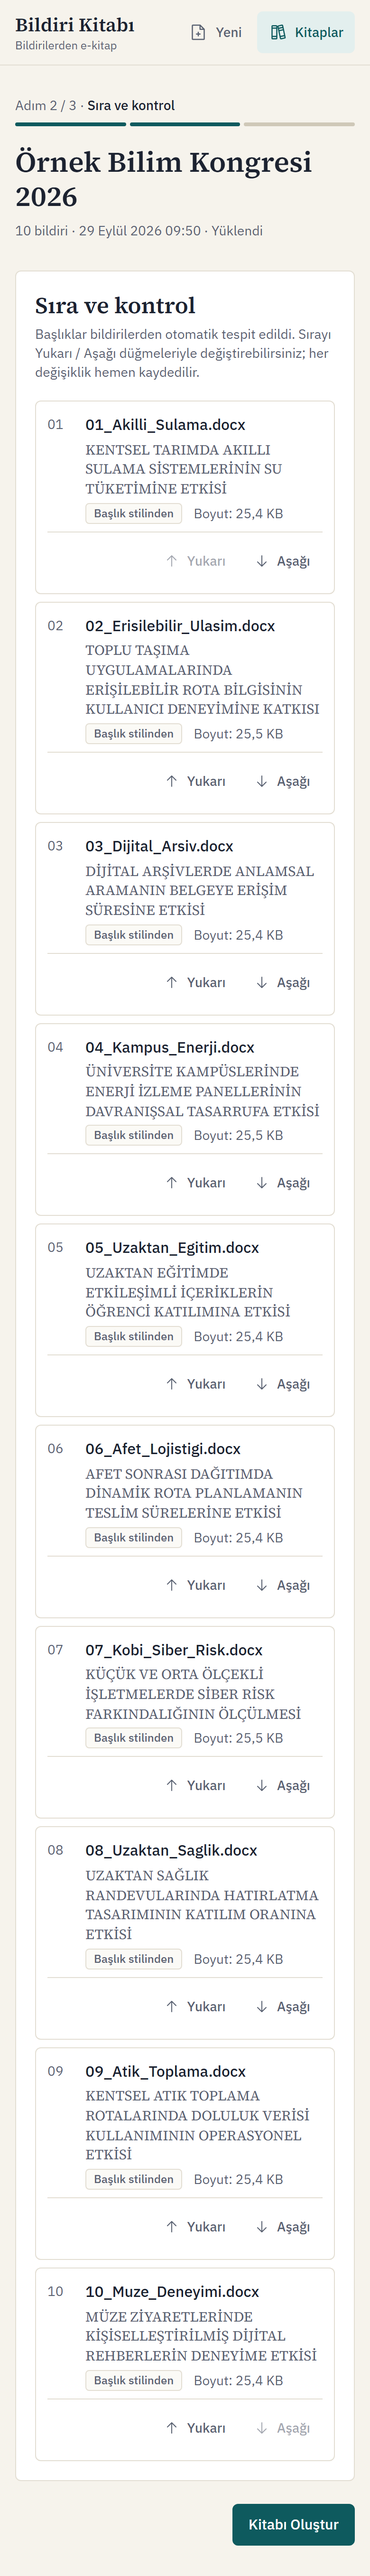
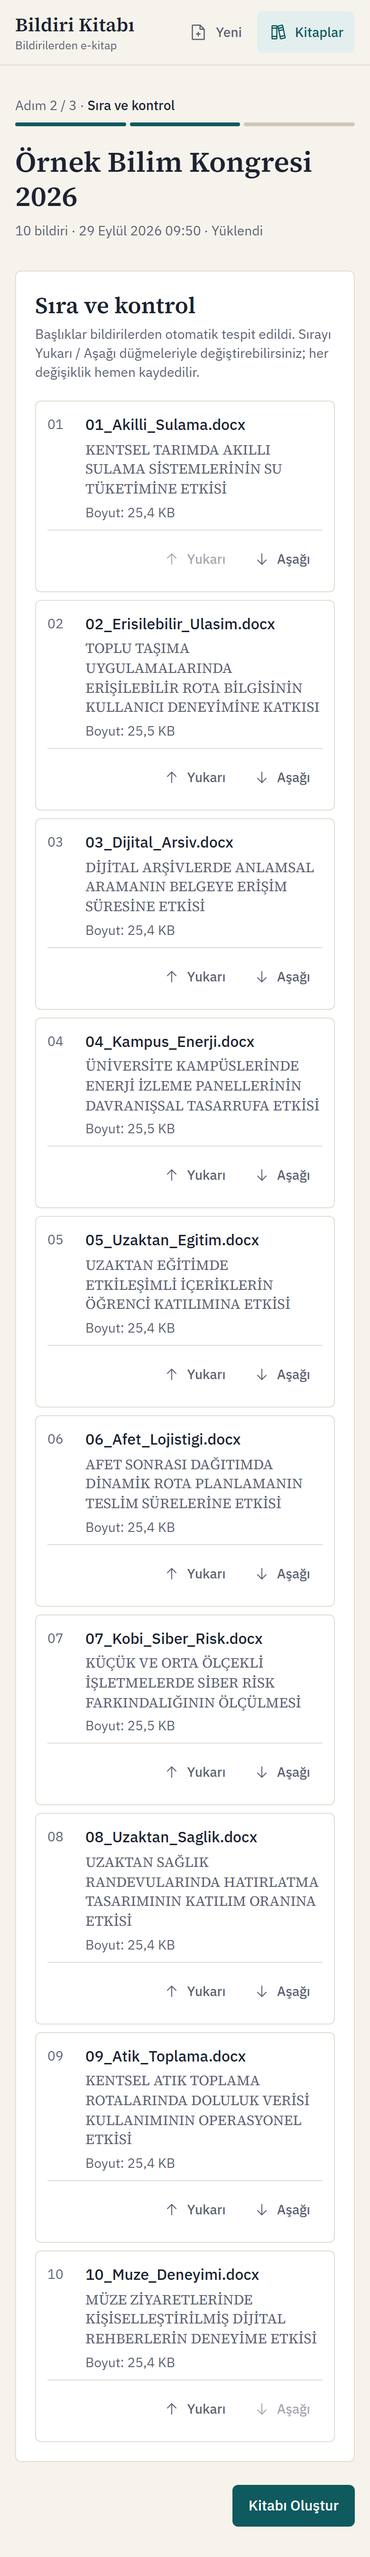
docs: README'de başlık kaynağı uyarısı ve metin kutusu odak görünümü anlatıldı, adım 2 ekran görüntüleri yenilendi

diff --git a/README.md b/README.md
@@ -321,7 +321,7 @@ Biçim katman katman hesaplanır: belge varsayılanları → paragraf stili (`ba
 
 ### Başlık tespiti
 
-Sırasıyla: (1) çözümlenen stil adı `Title` veya `heading 1` olan ilk boş olmayan paragraf; (2) ilk beş paragraf içinde ortalı ve tamamı kalın ilk paragraf; (3) dosya adı (uzantı ve baştaki `01_` gibi sıra öneki atılır, `_` boşluğa çevrilir). Başlık metni olduğu gibi kullanılır; büyük/küçük harf dönüştürmesi yapılmaz. Kaynağı kaydedilir ve arayüzde gösterilir. Belge özelliklerindeki (`docProps/core.xml`) başlık kullanılmaz: örnek dosyalarda küçük harfe çevrilmiş ve bozuk karakterler içerir.
+Sırasıyla: (1) çözümlenen stil adı `Title` veya `heading 1` olan ilk boş olmayan paragraf; (2) ilk beş paragraf içinde ortalı ve tamamı kalın ilk paragraf; (3) dosya adı (uzantı ve baştaki `01_` gibi sıra öneki atılır, `_` boşluğa çevrilir). Başlık metni olduğu gibi kullanılır; büyük/küçük harf dönüştürmesi yapılmaz. Kaynağı kaydedilir; başlık yedek yöntemle (kalın ilk paragraf veya dosya adı) bulunduysa arayüz o bildirinin altında kontrol edilmesini isteyen bir uyarı gösterir. Belge özelliklerindeki (`docProps/core.xml`) başlık kullanılmaz: örnek dosyalarda küçük harfe çevrilmiş ve bozuk karakterler içerir.
 
 ### Kitap düzeni ve sayfa numaraları
 
@@ -421,14 +421,14 @@ MassTransit yerine doğrudan `RabbitMQ.Client` kullanıldı: tek kuyruk ve tek m
 - **Adım yapısı:** "Yeni kitap" üç adımlı bir akıştır — (1) kitap adı ve dosyalar, (2) sıra ve kontrol, (3) oluşturma ve görüntüleme. Adımlar üstte bir adım göstergesiyle izlenir; tarayıcı adresi kitaba bağlıdır, sayfa yenilense de akış kaldığı yerden devam eder.
 - **Dosya listesi:** masaüstünde başlık ve satırların aynı sütun düzenini paylaştığı bir tablo (sıra, dosya adı, boyut, durum), telefonda aynı bilgileri taşıyan kartlar. Bu tabloda ve Kitaplarım'da kısa, biçimi sabit sayılar (boyut, bildiri ve sayfa sayısı) başlıklarıyla birlikte ortalıdır ve eşit genişlikli rakamlarla yazılır; durum etiketleri, genişlikleri farklı olduğu için sola hizalıdır; komşu sütunların içerikleri arasında en az yaklaşık 2rem boşluk kalır. Dosyalar yükleme alanına sürükleyip bırakarak veya dosya seçiciyle eklenir; eksik, fazla, yanlış türde veya mükerrer dosya hemen, dosya bazında belirtilir. "Ada göre sırala" doğal sayı sıralaması kullanır (`2_…` önce, `10_…` sonra); liste zaten sıralıysa pasiftir ve nedeni bir ipucu balonunda görünür (fareyle üzerine gelince açılır, imleç ayrılınca kapanır; klavye odağında açılır, Esc ile kapanır; telefonda dokununca birkaç saniye görünür), sıralayınca kısa bir onay gösterir.
 - **Yükleme:** önce yükleme yüzdesi, dosyalar gönderildikten sonra "Dosyalar kontrol ediliyor ve başlıklar tespit ediliyor…" aşaması gösterilir. Her sayfa geçişinde sayfa en üstten başlar ve odak yeni sayfanın başlığına taşınır (geri/ileri tuşlarında tarayıcının konumu korunur).
-- **Sıralama:** ikinci adımda tespit edilen başlıklar ve başlık kaynağı görünür. Sıra yalnızca her satırdaki Yukarı / Aşağı düğmeleriyle değişir (sürükle-bırak sıralama kaldırıldı); ilk satırda Yukarı, son satırda Aşağı pasiftir. Taşımadan sonra odak aynı bildirinin düğmesinde kalır ve yeni sıra ekran okuyucuya duyurulur; sıra yükleme sırasından farklıysa bir not gösterilir.
+- **Sıralama:** ikinci adımda tespit edilen başlıklar görünür; başlık Word'ün başlık stilinden değil de yedek yöntemle bulunduysa altında uyarı tonunda "kontrol edin" satırı çıkar. Sıra yalnızca her satırdaki Yukarı / Aşağı düğmeleriyle değişir (sürükle-bırak sıralama kaldırıldı); ilk satırda Yukarı, son satırda Aşağı pasiftir. Taşımadan sonra odak aynı bildirinin düğmesinde kalır ve yeni sıra ekran okuyucuya duyurulur; sıra yükleme sırasından farklıysa bir not gösterilir.
 - **Bekleme ekranı:** sunucudaki gerçek aşamalar (okuma, temizlik, düzenleme, PDF oluşturma, kontrol, kaydetme) ve gerçek yüzde gösterilir; yapay gecikme veya sahte ilerleme yoktur. Durum kısa aralıklarla yoklanır, sekme arka plandayken yoklama durur.
 - **Sonuç ve hata:** tamamlanınca başlığın altındaki tek satır durumu özetler (`10 bildiri · 22 sayfa · tarih · Hazır`) ve görüntüleyici açılır. Temizlenen e-posta ve telefon sayıları, satırın sonundaki bilgi düğmesinin açtığı küçük panelde toplam ve bildiri bazında gösterilir. Hata durumunda sunucunun Türkçe mesajı, "Tekrar dene" ve "Sırayı düzenle" seçenekleri gösterilir.
 - **Kitaplarım:** her satırda doğrudan bir "Sil" düğmesi (telefonda yalnızca simge) ve onay diyaloğu vardır; kitap kuyrukta veya hazırlanırken düğme pasiftir ve nedeni ipucunda yazar.
 - **Etkileşim:** tıklanabilir her öğede el imleci, pasif öğelerde "izin yok" imleci; tüm düğmelerde belirgin hover ve basılı durumları (130 ms, azaltılmış harekette geçiş yok); "Kaldır" ve "Sil" gibi yıkıcı eylemler normalde nötr, üzerine gelindiğinde veya klavye odağında kırmızıdır. Kaydırma çubukları ince ve uygulamanın renklerindedir.
 - **Görüntüleyici:** hazır kitapta ekranın tam genişliğini (en fazla yaklaşık 1800 px) ve pencere yüksekliğini kullanır. Varsayılan açılış çift sayfa ve genişliğe sığdırmadır; 1920 × 1080 bir ekranda gövde metni yaklaşık 13 px'tir. Sığdırma modlarında yatay kaydırma olmaz; "Sayfaya sığdır" sayfaları tamamen gösterir. Kapak ve tek kalan son sayfa ortada durur, karşılıklı sayfalar ortada birleşir. Yakınlaştırma yüzdesi gerçek boyuta göredir (%100 = A4'ün 96 dpi'deki boyutu) ve %25–%400 arasındadır. Araç çubuğundaki yüzde kutusuna "150", "%150" veya "150%" yazılabilir: tıklayınca değer seçilir, Enter'la veya kutudan çıkınca uygulanır, Esc iptal eder, ↑ / ↓ 10'ar puan değiştirir; aralık dışı değer sınıra çekilir, sayı olmayan değer yok sayılır. Elle girilen yüzde sığdırma modunu kapatır; + / − düğmeleri aynı sınırları kullanır. Yakınlaştırınca görünen bölgenin ortası yerinde kalır, sayfa değişmez. Sol panelde (daraltılabilir, 330 px) İçindekiler ve vurgulu olarak bulunulan bildiri; araç çubuğunda sayfa gezinme, yakınlaştırma, tek/çift sayfa, tam ekran ve indirme bulunur. Geçerli sayfa adres çubuğunda (`?sayfa=`) tutulur. Sayfalar ekran yoğunluğuna ve yakınlaştırmaya göre (üst sınırlı) net çizilir.
 - **Mobil:** görüntüleyici tek sayfa ve genişliğe sığdırılmış açılır. A4 sayfa telefonda küçük kaldığı için alttaki sabit araç çubuğunda yakınlaştır / uzaklaştır düğmeleri vardır; çift dokunma, dokunulan noktayı ortada tutarak genişliğe sığdır ile %200 arasında geçiş yapar. Yakınlaştırılmış sayfa iki eksende kaydırılır; tarayıcının kendi sıkıştırarak yakınlaştırması da açıktır. İçindekiler alttan açılan bir panelde gösterilir.
-- **Erişilebilirlik:** tüm akış klavyeyle kullanılabilir; aşama değişiklikleri ve sıra değişiklikleri ekran okuyuculara duyurulur; renk çiftlerinin kontrast oranları birim testle (metin 4.5:1, arayüz öğeleri 3:1) doğrulanır; dokunma hedefleri en az 44 px'tir; her ekran E2E testlerinde axe ile taranır.
+- **Erişilebilirlik:** tüm akış klavyeyle kullanılabilir; aşama değişiklikleri ve sıra değişiklikleri ekran okuyuculara duyurulur; renk çiftlerinin kontrast oranları birim testle (metin 4.5:1, arayüz öğeleri 3:1) doğrulanır; dokunma hedefleri en az 44 px'tir; metin kutularında odak, accent renkli kenarlık ve etrafında yumuşak bir halkayla (kenarlığın beyaza karşıtlığı 7,95:1), düğme ve bağlantılarda 2 px'lik odak çizgisiyle gösterilir; her ekran E2E testlerinde axe ile taranır.
 
 | Ekran | Masaüstü | Mobil |
 |---|---|---|
@@ -467,7 +467,7 @@ Development ortamında OpenAPI belgesi `/openapi/v1.json`, etkileşimli referans
 | Komut | Kapsam | Sayı |
 |---|---|---|
 | `cd backend && dotnet test` | Birim testleri (`BildiriKitabi.UnitTests`): okuma, stil çözümleme, temizlik, başlık, doğrulama, durum geçişleri, depolama, kuyruk yapılandırması, açılış migration'ının yeniden deneme kuralları (sahte saatle). Entegrasyon testleri (`BildiriKitabi.IntegrationTests`): örnek bildirilerle uçtan uca PDF, dizgi ve sızıntı tarayıcısı, yazı tipi yedekleri, migration ve kısıtlar, gerçek SQL Server hatalarının geçici/kalıcı ayrımı, API uçları ve yaşam döngüsü, RabbitMQ topolojisi, onay, DLQ, yeniden teslim ve broker kesintisi. | 402 |
-| `cd frontend && npm run test` | Bileşen ve birim testleri (Vitest, Testing Library, MSW): sayfalar, dosya seçimi, ipucu balonu, tablo sütun hizaları, hata eşleme, görüntüleyici, sayfa hesapları, kontrast. | 264 |
+| `cd frontend && npm run test` | Bileşen ve birim testleri (Vitest, Testing Library, MSW): sayfalar, dosya seçimi, ipucu balonu, tablo sütun hizaları, başlık kaynağı uyarısı, hata eşleme, görüntüleyici, sayfa hesapları, kontrast. | 269 |
 | `cd frontend && npm run test:e2e` | Playwright, masaüstü ve mobil: gerçek API (kendi veritabanıyla, Release derlemesi) ve Vite geliştirme sunucusu otomatik başlatılır; mutlu yol, doğrulama, hata ve bekleme ekranları, liste ve silme, görüntüleyici (1920 px varsayılan açılış, yakınlaştırma ve yazılan yüzde, mobilde çift dokunma), düzen, axe ile erişilebilirlik taraması (ipucu balonu açıkken de). | 16 |
 | `cd frontend && npm run test:e2e:docker` | Aynı E2E testleri çalışan Docker kurulumuna karşı (varsayılan http://localhost:8080, `E2E_BASE_URL` ile değiştirilebilir); ayrıca nginx'in CSP'si altında CSP ihlali olmadığını doğrular. | 16 |
 
